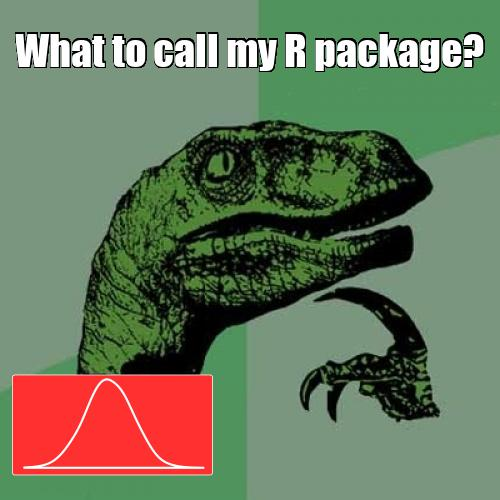
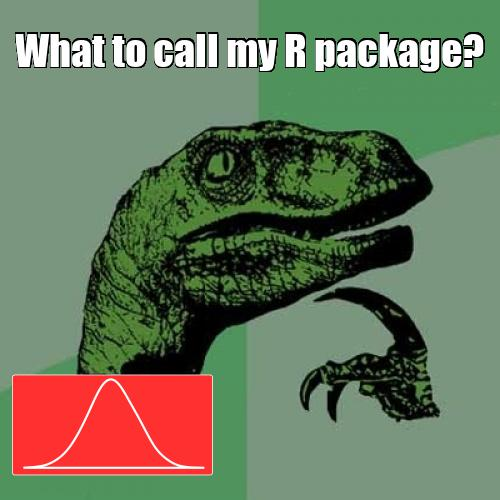
Fix typos in vignette. Set seed to avoid future commits based only on random sampling leading to insignificant plot changes.

Changed region(s): [[0.18, 0.75, 0.36, 0.96], [0.09, 0.87, 0.15, 0.93], [0.15, 0.81, 0.18, 0.87]]

diff --git a/docs/articles/memery.html b/docs/articles/memery.html
@@ -139,7 +139,7 @@
 <div id="note-on-fonts" class="section level3">
 <h3 class="hasAnchor">
 <a href="#note-on-fonts" class="anchor"></a>Note on fonts</h3>
-<p>Note that Impact is a Windows font. If using  on Linux for example, you would have to first install the font if not already installed on the system. If Impact or any other font family passed to <code>meme</code>, e.g. <code>family = "Consolas"</code>, is not installed on an operating system, <code>meme</code> will ignore it and fall back on <code>family = "serif"</code> internally. If unfamiliar, explore the documentation and examples available for the <code>showtext</code> and <code>sysfonts</code> packages, which  leverages.</p>
+<p>Note that Impact is a Windows font. If using <code>memery</code> on Linux for example, you would have to first install the font if not already installed on the system. If Impact or any other font family passed to <code>meme</code>, e.g. <code>family = "Consolas"</code>, is not installed on an operating system, <code>meme</code> will ignore it and fall back on <code>family = "serif"</code> internally. If unfamiliar, explore the documentation and examples available for the <code>showtext</code> and <code>sysfonts</code> packages, which <code>memery</code> leverages.</p>
 <div class="sourceCode"><pre class="sourceCode r"><code class="sourceCode r"><span class="kw">library</span>(memery)
 loc &lt;-<span class="st"> </span><span class="kw">system.file</span>(<span class="st">"philosoraptor.jpg"</span>, <span class="dt">package =</span> <span class="st">"memery"</span>)
 web &lt;-<span class="st"> "https://imgflip.com/s/meme/Philosoraptor.jpg"</span>
@@ -202,6 +202,7 @@ p &lt;-<span class="st"> </span><span class="kw">ggplot</span>(d, <span class="k
 <h3 class="hasAnchor">
 <a href="#inset-templates-thumbnails" class="anchor"></a>Inset templates: thumbnails</h3>
 <p>The graph overlay does not fit well, namely the annotations. This will be adjusted in a moment. First, a quick look at other position templates. An opaque background for the inset is more suitable for a thumbnail image that does not get in the way of the meme. The following example shows a bottom left corner inset graphic. An empty theme is used since there is no room in the inset for plot annotations.</p>
+<div class="sourceCode"><pre class="sourceCode r"><code class="sourceCode r"><span class="kw">set.seed</span>(<span class="dv">1</span>)</code></pre></div>
 <div class="sourceCode"><pre class="sourceCode r"><code class="sourceCode r">p2 &lt;-<span class="st"> </span><span class="kw">ggplot</span>(<span class="kw">data_frame</span>(<span class="dt">x =</span> <span class="kw">rnorm</span>(<span class="dv">10000</span>)), <span class="kw">aes</span>(x)) +<span class="st"> </span><span class="kw">geom_density</span>(<span class="dt">adjust =</span> <span class="dv">2</span>, 
     <span class="dt">colour =</span> <span class="st">"white"</span>, <span class="dt">size =</span> <span class="dv">1</span>)
 pos &lt;-<span class="st"> </span><span class="kw">list</span>(<span class="dt">w =</span> <span class="fl">0.2</span>, <span class="dt">h =</span> <span class="fl">0.2</span>, <span class="dt">x =</span> <span class="fl">0.125</span>, <span class="dt">y =</span> <span class="fl">0.125</span>)
